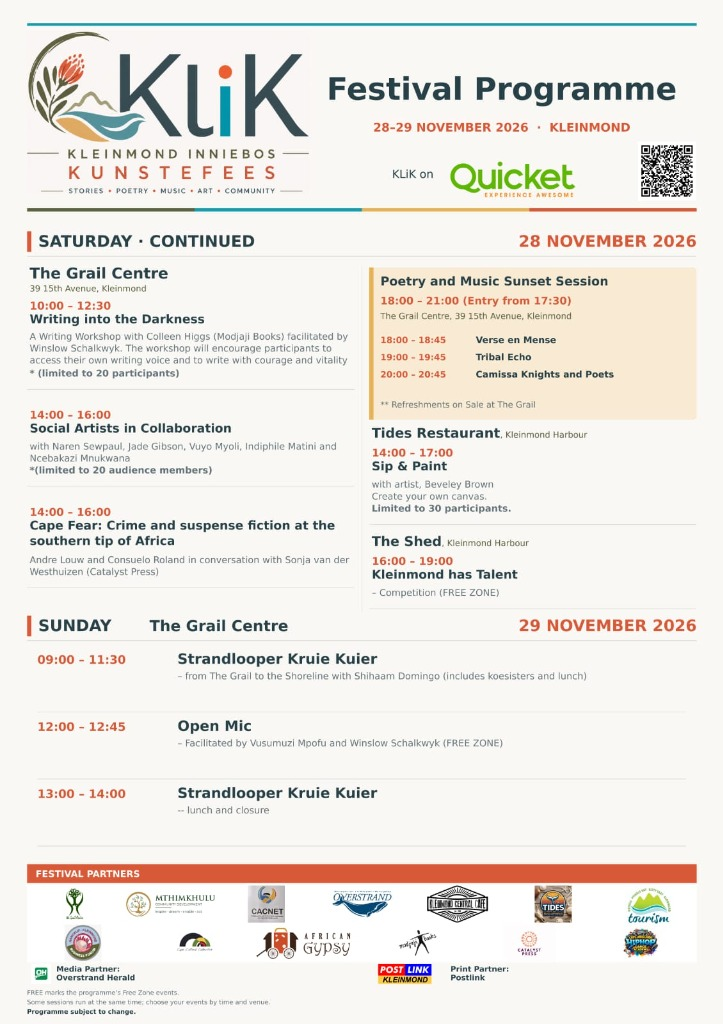
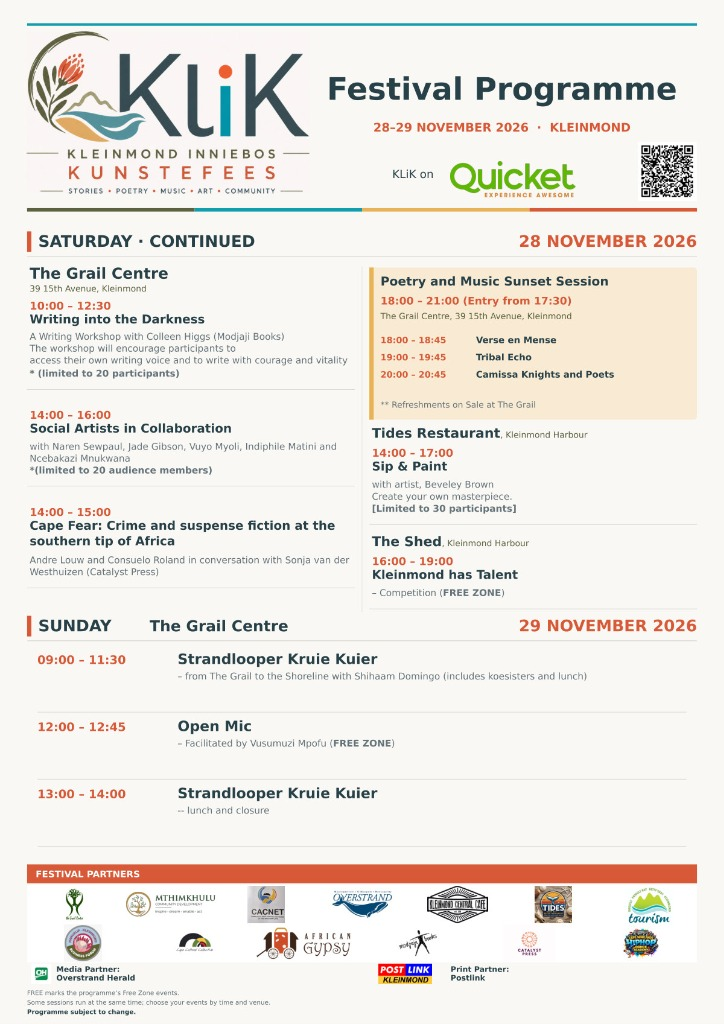
feat: add 3D campus explorer by Derique Coetzee, update programme & youth posters, and bump program version

diff --git a/src/lib/data/seed.ts b/src/lib/data/seed.ts
@@ -58,19 +58,19 @@ export const YOUTH_PROGRAMME_INFO = {
 
 export const OFFICIAL_POSTERS: OfficialPoster[] = [
   {
-    id: "poster-programme-1",
-    title: "Festival Programme — Page 1",
-    subtitle: "Friday 27 Nov & Saturday 28 Nov",
-    imageUrl: "/assets/programme-poster-page-1.jpg",
-    downloadName: "KliK-2026-Programme-Page-1.jpg",
-    aspectRatio: "a4",
-  },
-  {
     id: "poster-programme-2",
     title: "Festival Programme — Page 2",
     subtitle: "Saturday 28 Nov (Cont.) & Sunday 29 Nov",
     imageUrl: "/assets/programme-poster-page-2.jpg",
     downloadName: "KliK-2026-Programme-Page-2.jpg",
+    aspectRatio: "a4",
+  },
+  {
+    id: "poster-youth",
+    title: "Youth Festival Poster",
+    subtitle: "Saturday 28 Nov • Workshops & Kleinmond Has Talent",
+    imageUrl: "/assets/youth-poster.jpg",
+    downloadName: "KliK-2026-Youth-Festival-Poster.jpg",
     aspectRatio: "a4",
   },
 ];
@@ -713,14 +713,14 @@ export const SEED_EVENTS: FestivalEvent[] = [
   },
   {
     id: "evt-sat-marching-band",
-    title: "Kleinmond Marching Band",
+    title: "Street March: Proteadorp to Town Hall",
     description:
-      "Parade from Kleinmond Main Road to Kleinmond Town Hall featuring the celebratory fanfare of the Kleinmond Marching Band.",
+      "Parade and street march from Proteadorp along Main Road to Kleinmond Town Hall featuring the celebratory fanfare of the Kleinmond Marching Band.",
     date: "2026-11-28",
     startTime: "09:00",
-    endTime: "09:45",
+    endTime: "10:00",
     venueId: "loc-marching-route",
-    venueName: "Kleinmond Main Road to Kleinmond Town Hall",
+    venueName: "Proteadorp to Kleinmond Town Hall",
     category: "music",
     language: "multilingual",
     isTicketed: false,
@@ -959,7 +959,7 @@ export const SEED_EVENTS: FestivalEvent[] = [
     id: "evt-sat-youth-hip-hop",
     title: "Hip Hop Dance-Off",
     description:
-      "Afternoon Children & Youth Programme high-energy Hip Hop Dance-Off facilitated by the Cape Winelands Hip Hop Academy.",
+      "Afternoon Children & Youth Programme high-energy Hip Hop Dance-Off facilitated by Edward Karelse (Founder & Director, Cape Winelands Hip Hop Academy), teaching dance styles and identifying talent for further development.",
     date: "2026-11-28",
     startTime: "13:00",
     endTime: "14:00",
@@ -969,7 +969,7 @@ export const SEED_EVENTS: FestivalEvent[] = [
     category: "youth",
     language: "multilingual",
     isTicketed: false,
-    facilitatorDisplay: "Cape Winelands Hip Hop Academy",
+    facilitatorDisplay: "Edward Karelse (Cape Winelands Hip Hop Academy)",
     artists: [],
     accessibilityInfo: "Outdoor stage and amphitheatre courtyard at Mthimkhulu Village Centre.",
     scheduleStatus: "scheduled",
@@ -1295,7 +1295,7 @@ export const SEED_EVENTS: FestivalEvent[] = [
     id: "evt-sat-kleinmond-talent",
     title: "KliK Kleinmond Has Talent Competition",
     description:
-      "Community talent competition at The Shed, Kleinmond Harbour, hosted by MCs Shardikah Carelse, Vusumuzi Mpofu, and Nathan Appel, featuring a judging panel, certificates, and prizes.",
+      "Community talent competition for young people aged 12–25 at The Shed, Kleinmond Harbour, hosted by MCs Shardikah Carelse, Vusumiso Mavusi, and Nathan Appel, featuring a judging panel, certificates, and prizes.",
     date: "2026-11-28",
     startTime: "16:00",
     endTime: "18:30",
@@ -1304,7 +1304,7 @@ export const SEED_EVENTS: FestivalEvent[] = [
     category: "competition",
     language: "multilingual",
     isTicketed: false,
-    hosts: ["Shardikah Carelse", "Vusumuzi Mpofu", "Nathan Appel"],
+    hosts: ["Shardikah Carelse", "Vusumiso Mavusi", "Nathan Appel"],
     highlights: ["Judging panel", "Certificates", "Prizes"],
     artists: [SEED_ARTISTS.find((a) => a.id === "art-vusumuzi-mpofu")!],
     accessibilityInfo: "Accessible harbour venue, level entrance and seating areas.",

diff --git a/src/components/Map/VenueListView.tsx b/src/components/Map/VenueListView.tsx
@@ -13,6 +13,8 @@ import {
   Utensils,
   X,
   CheckCircle2,
+  Box,
+  ExternalLink,
 } from "lucide-react";
 import { trackEvent } from "@/lib/analytics";
 
@@ -132,6 +134,32 @@ export const VenueListView: React.FC<VenueListViewProps> = ({
                       <span>Food nearby</span>
                     </span>
                   )}
+                </div>
+              )}
+
+              {/* Optional 3D Model CTA for Mthimkhulu Centre */}
+              {venue.id === "loc-mthimkhulu" && (
+                <div className="pt-2 border-t border-parchment-200">
+                  <a
+                    href="https://mthimkhulu-lab-entrance.wiry-hero-7050.chatgpt.site/"
+                    target="_blank"
+                    rel="noopener noreferrer"
+                    onClick={(e) => {
+                      e.stopPropagation();
+                      trackEvent("things_to_do_view", { item: "mthimkhulu_3d_campus_venue_list" });
+                    }}
+                    className="w-full min-h-[42px] py-2 px-3 rounded-xl bg-gradient-to-r from-teal-festival to-teal-dark hover:from-teal-dark hover:to-teal-festival text-white text-xs font-bold flex items-center justify-between shadow-subtle group transition-all"
+                    title="Explore 3D Virtual Tour by Derique Coetzee"
+                  >
+                    <span className="flex items-center gap-2">
+                      <Box className="w-4 h-4 text-mustard-light group-hover:rotate-12 transition-transform shrink-0" />
+                      <span>3D Model of Mthimkhulu Centre</span>
+                    </span>
+                    <span className="text-[11px] font-normal text-parchment-100/90 flex items-center gap-1 shrink-0">
+                      <span>by Derique Coetzee</span>
+                      <ExternalLink className="w-3.5 h-3.5 opacity-80" />
+                    </span>
+                  </a>
                 </div>
               )}
 

diff --git a/src/components/Map/InteractiveMap.tsx b/src/components/Map/InteractiveMap.tsx
@@ -11,6 +11,8 @@ import {
   Maximize2,
   Car,
   LocateFixed,
+  Box,
+  ExternalLink,
 } from "lucide-react";
 import Link from "next/link";
 import { trackEvent } from "@/lib/analytics";
@@ -467,6 +469,28 @@ export const InteractiveMap: React.FC<InteractiveMapProps> = ({
                 ✕
               </button>
             </div>
+
+            {selectedVenue.id === "loc-mthimkhulu" && (
+              <div className="pt-2 border-t border-white/15">
+                <a
+                  href="https://mthimkhulu-lab-entrance.wiry-hero-7050.chatgpt.site/"
+                  target="_blank"
+                  rel="noopener noreferrer"
+                  onClick={() => trackEvent("things_to_do_view", { item: "mthimkhulu_3d_campus_map_popup" })}
+                  className="w-full min-h-[38px] py-1.5 px-3 rounded-xl bg-gradient-to-r from-teal-accent/30 to-teal-light/20 hover:from-teal-accent/40 hover:to-teal-light/30 text-white font-bold text-xs flex items-center justify-between border border-teal-light/40 transition-all group shadow-sm"
+                  title="Explore 3D Campus by Derique Coetzee"
+                >
+                  <span className="flex items-center gap-1.5">
+                    <Box className="w-3.5 h-3.5 text-mustard-light group-hover:rotate-12 transition-transform" />
+                    <span>3D Model of Mthimkhulu Centre</span>
+                  </span>
+                  <span className="text-[10px] text-white/80 font-normal flex items-center gap-1">
+                    <span>by Derique Coetzee</span>
+                    <ExternalLink className="w-3 h-3 text-white/70" />
+                  </span>
+                </a>
+              </div>
+            )}
 
             <div className="grid grid-cols-3 gap-1.5 pt-2 border-t border-white/15 text-xs">
               <a

diff --git a/src/app/page.tsx b/src/app/page.tsx
@@ -35,6 +35,8 @@ import {
   Sparkles,
   Users,
   ArrowRight,
+  Box,
+  ExternalLink,
 } from "lucide-react";
 
 const formatShortDay = (isoDate: string): string => {
@@ -391,7 +393,7 @@ export default function HomePage() {
               </span>
             </div>
 
-            <div className="pt-1">
+            <div className="pt-1 flex flex-wrap items-center gap-2.5">
               <Link
                 href="/youth"
                 onClick={() => trackEvent("youth_programme_view", { source: "home_shortcut" })}
@@ -400,6 +402,19 @@ export default function HomePage() {
                 <span>Explore Activities</span>
                 <ArrowRight className="w-4 h-4" />
               </Link>
+
+              <a
+                href="https://mthimkhulu-lab-entrance.wiry-hero-7050.chatgpt.site/"
+                target="_blank"
+                rel="noopener noreferrer"
+                onClick={() => trackEvent("things_to_do_view", { item: "mthimkhulu_3d_campus_home" })}
+                className="inline-flex min-h-[46px] w-full sm:w-auto items-center justify-center gap-2 px-4 py-2.5 rounded-xl bg-white/15 hover:bg-white/25 text-white border border-white/25 font-semibold text-xs sm:text-sm backdrop-blur-xs transition-all group"
+                title="Explore 3D Virtual Tour by Derique Coetzee"
+              >
+                <Box className="w-4 h-4 text-mustard-light group-hover:rotate-12 transition-transform" />
+                <span>Explore 3D Campus</span>
+                <ExternalLink className="w-3.5 h-3.5 opacity-75" />
+              </a>
             </div>
           </div>
         </div>

diff --git a/src/lib/db/repository.ts b/src/lib/db/repository.ts
@@ -60,7 +60,7 @@ export interface FestivalRepository {
   publishNotice(notice: Omit<FestivalNotice, "id" | "createdAt">): Promise<FestivalNotice>;
 }
 
-const CURRENT_PROGRAM_VERSION = "9.3-dance4all-cape-fear-beveley";
+const CURRENT_PROGRAM_VERSION = "9.4-posters-updated-and-youth-enrichment";
 
 // In-Memory & Local Storage implementation of FestivalRepository
 class LocalSeedRepository implements FestivalRepository {
